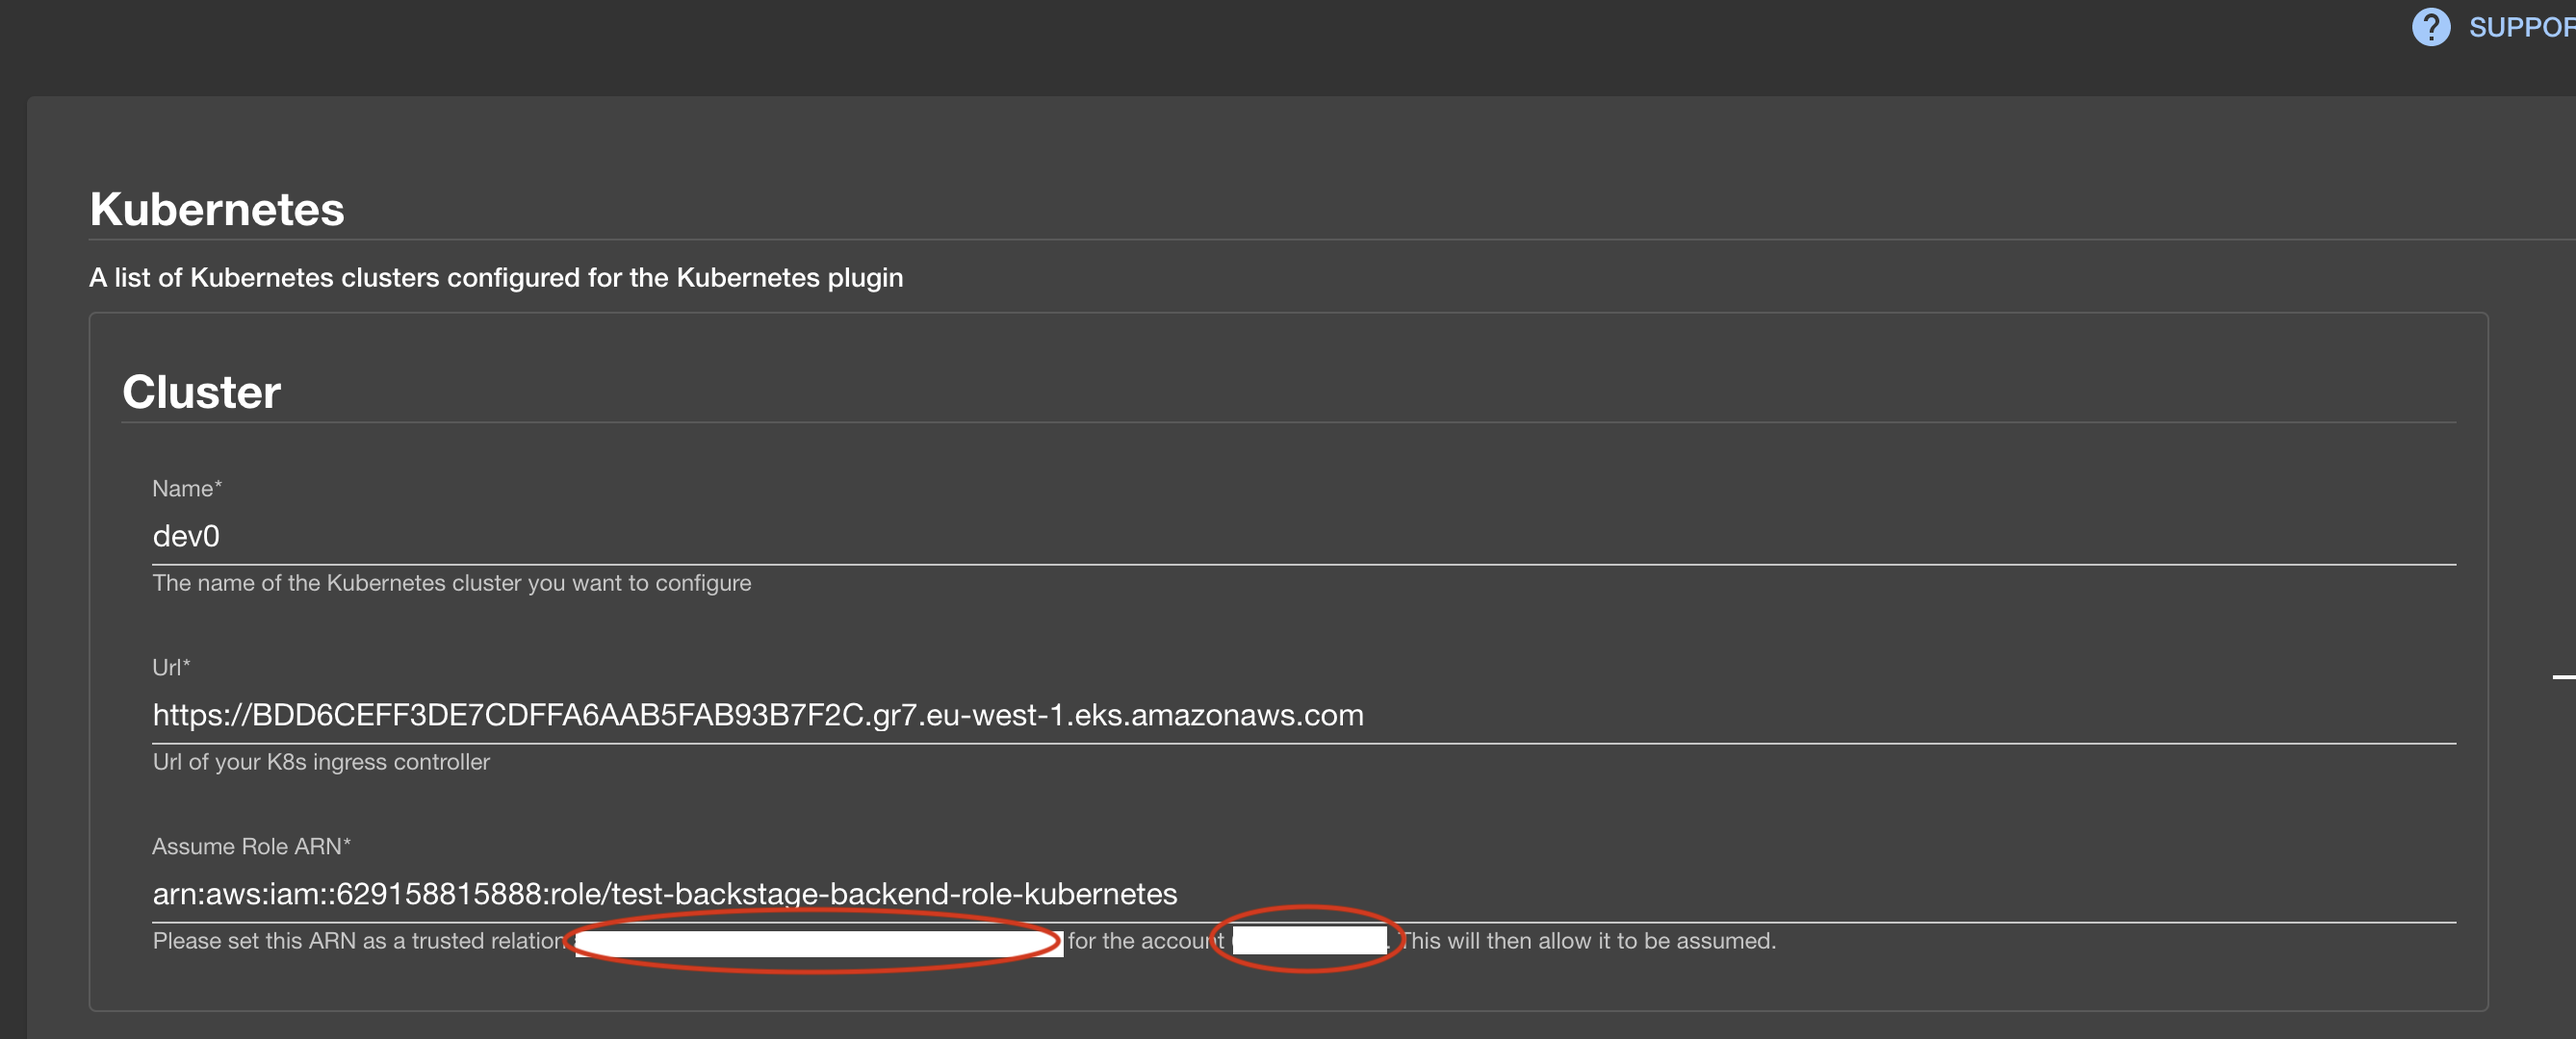
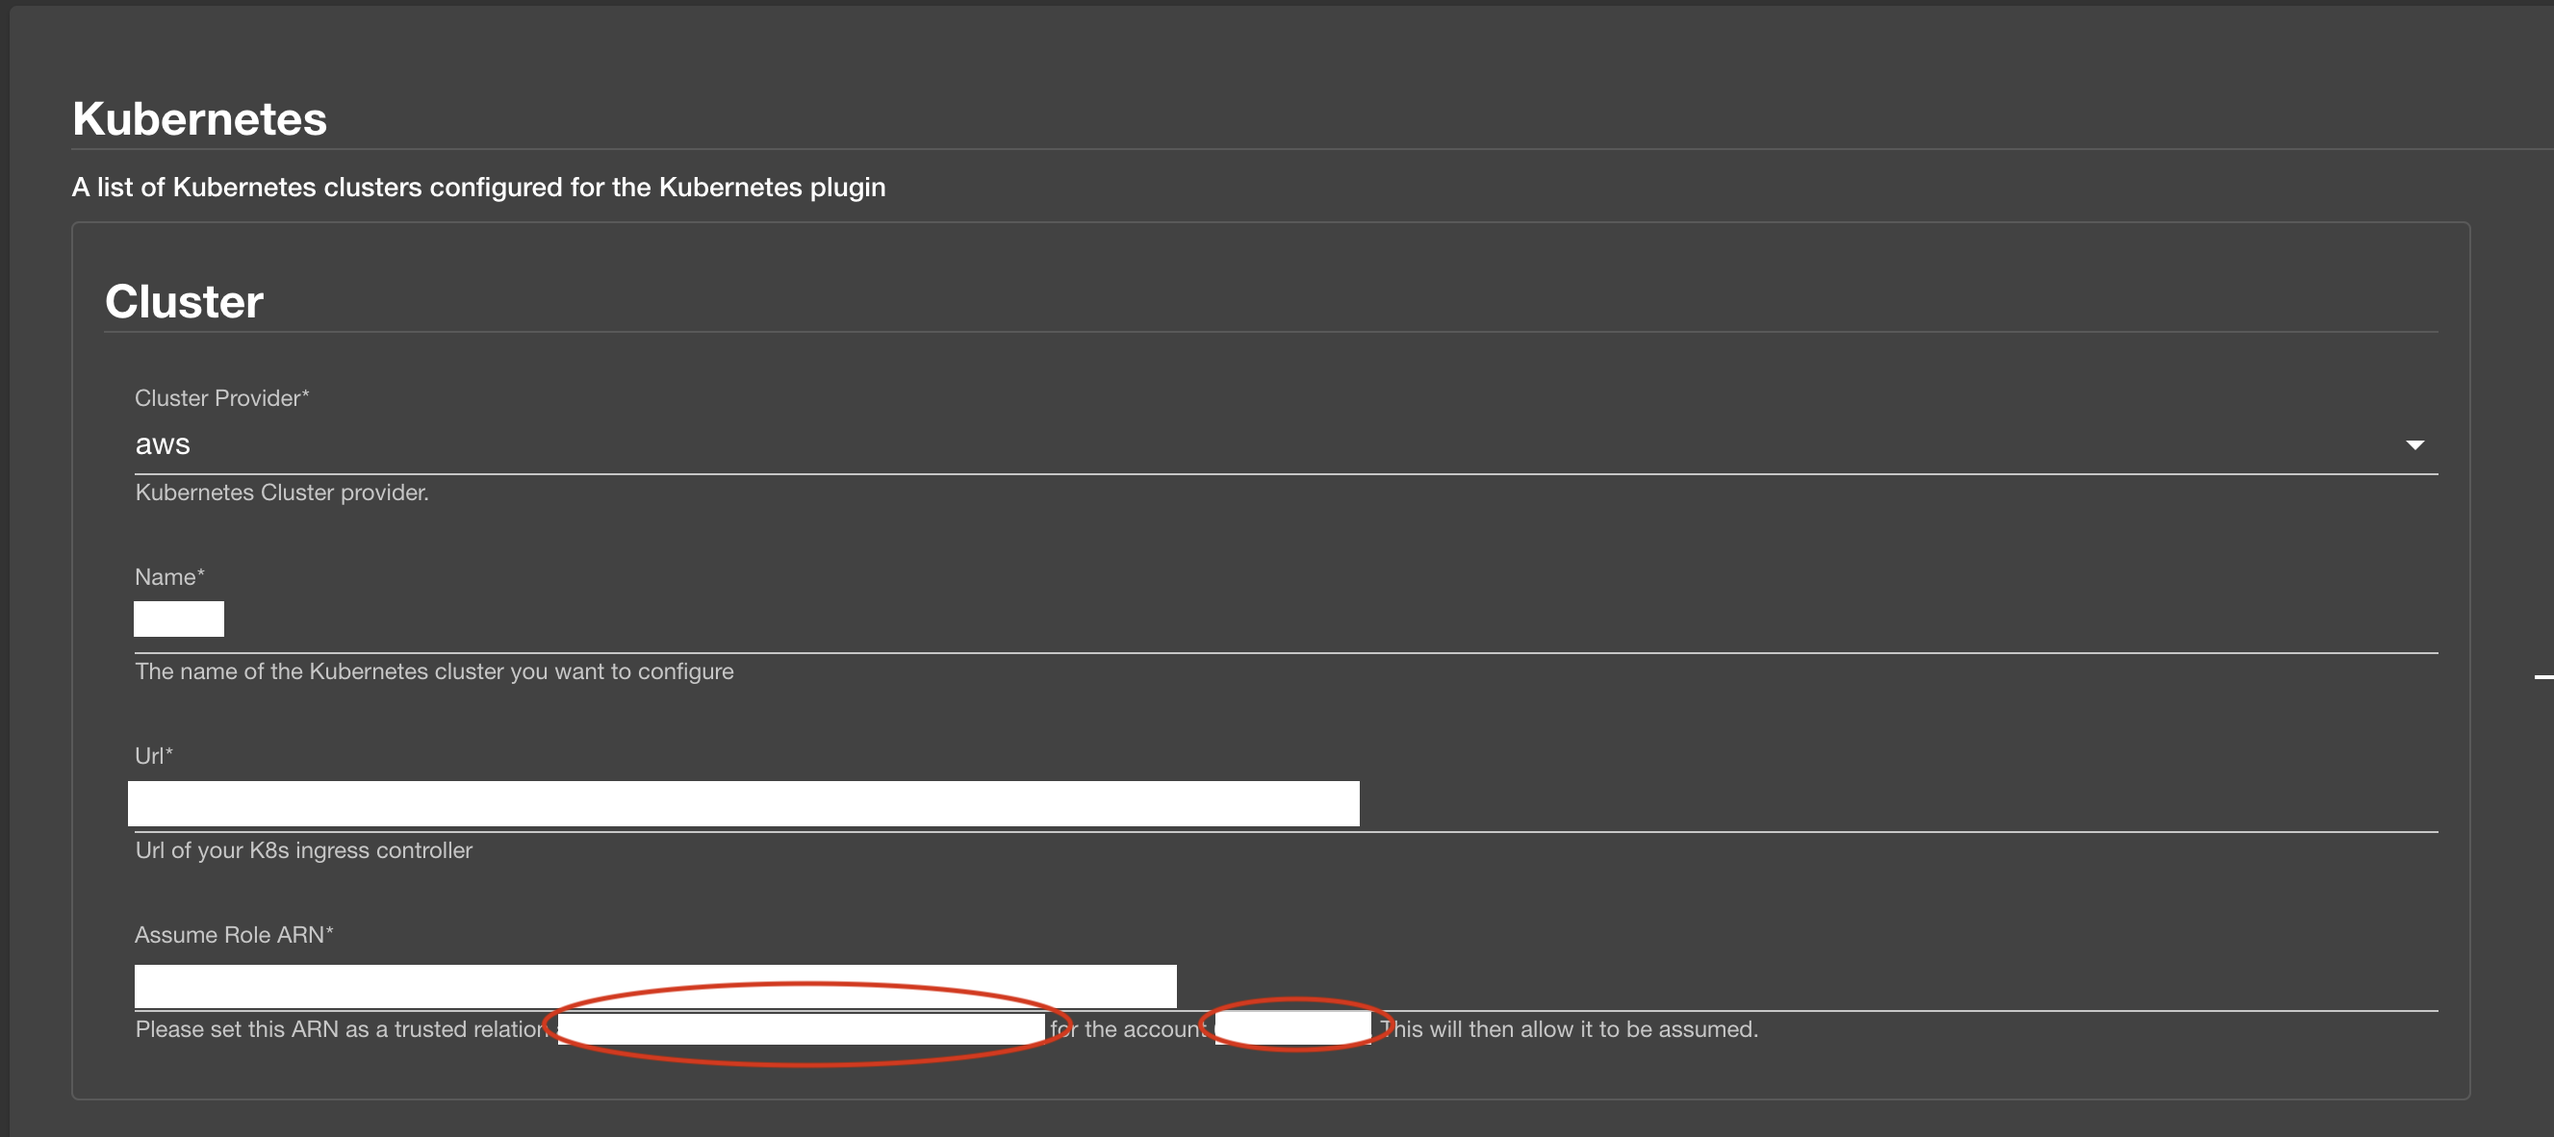
Removing references to our accounts

diff --git a/content/docs/integrations/kubernetes/index.md b/content/docs/integrations/kubernetes/index.md
@@ -4,6 +4,8 @@ lastUpdated: '2021-07-15T21:00:00.0Z'
 description: How to add a Kubernetes cluster for the Kubernetes plugin.
 ---
 
+[Full active cluster on backstage](./active.png)
+
 > Note, the Kubernetes plugin is only supported with AWS clusters.
 > We are currently working on trying to get GKE as another supported provider.
 
@@ -34,7 +36,7 @@ Once there, click on `Role` link (this should be on the left handside of your sc
 
 Now that we are in the Role tab, please click on the `Create Role` button.
 
-Click on `Another AWS Account` and add the account number on on the kubernetes configuration page (Usually: 131774410247) and then click on `Next: permissions`.
+Click on `Another AWS Account` and add the account number on on the kubernetes configuration page and then click on `Next: permissions`.
 
 ![Another AWS Account](./role-creation.png)
 
